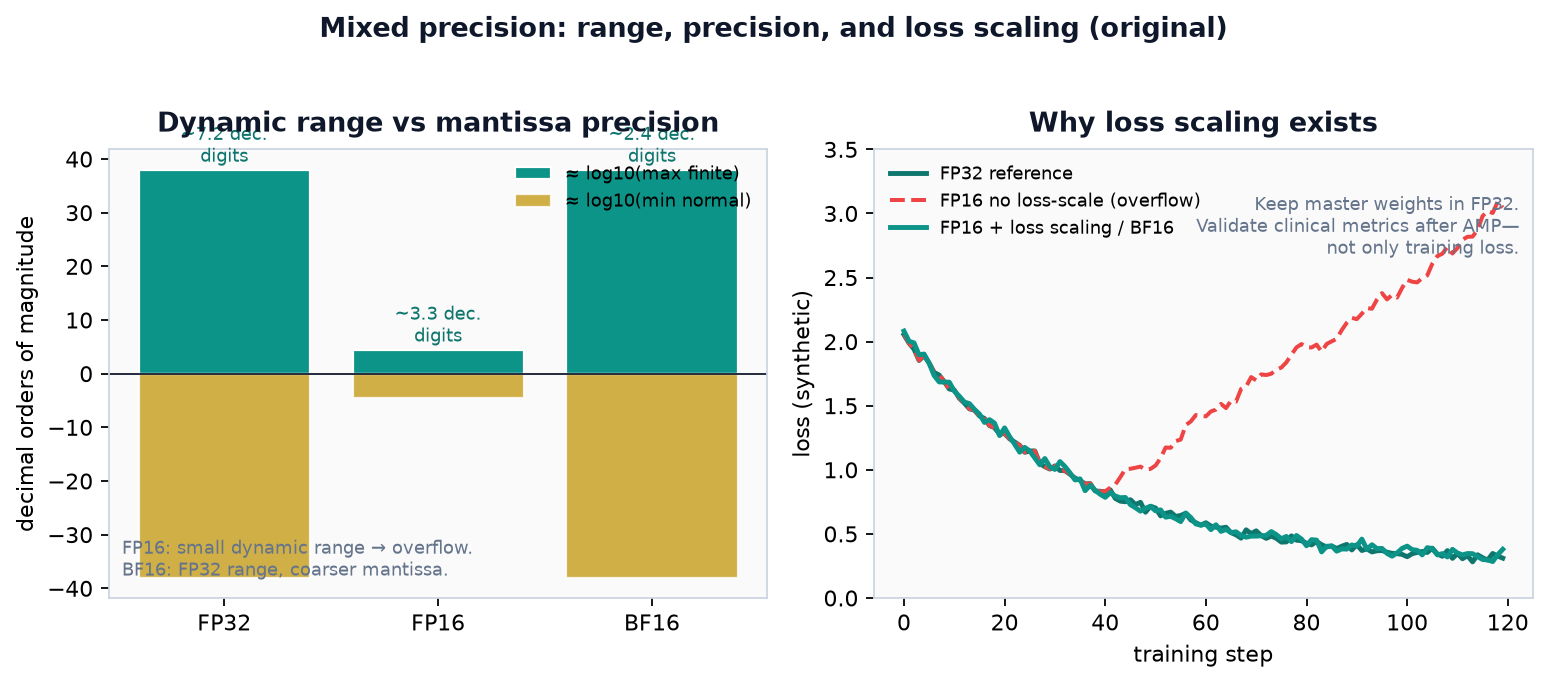
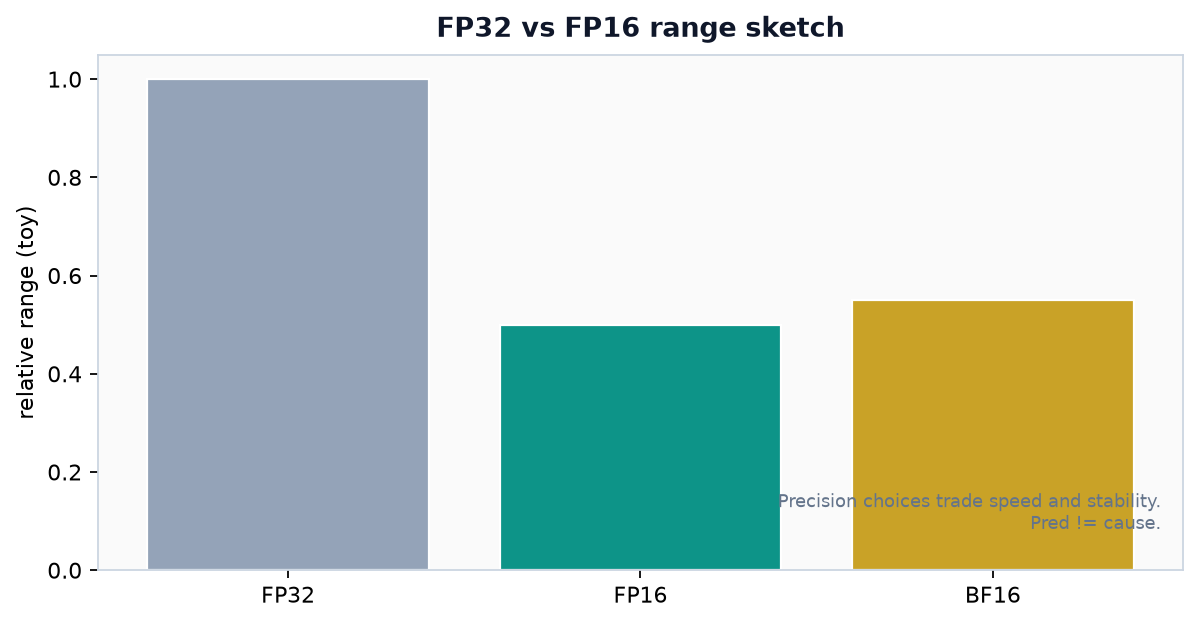
Cycle-32 densify: 20 scientific figures; floor raised to >=22
Book-wide: Gram-Schmidt, repro checklist, colormap caution, SE vs n,
centroid paths, n-gram decay, one-hot vs embed, t-SNE early exagger.,
ridge shrink, grad clip, stop-grad, CTC align, replay buffer, low-bit
error, community sizes, data unit tests, go/no-go, PPV/NPV grid,
capacity approx.

Gates green. No DOCX; prediction!=causation.

diff --git a/docs/curriculum/00-mathematical-foundations-for-machine-learning.md b/docs/curriculum/00-mathematical-foundations-for-machine-learning.md
@@ -330,6 +330,11 @@ Logs are not decoration; they are structural. First, models multiply many probab
 
 *Figure — Linear-algebra scale intuition—not clinical causation. Pred ≠ cause without design.*
 
+
+![Gram-Schmidt orthogonalization sketch (original).](../assets/figures/ml_fig_gram_schmidt.png)
+
+*Figure — Orthogonal bases aid numerics. Gram-Schmidt orthogonalization sketch Pred != cause without design.*
+
 ### What a function is, and how to read its graph
 
 Recall from Section 0.1 that a function maps each input to exactly one output. The domain is the set of allowed inputs; the range is the set of outputs actually produced. We picture a function by its graph: plot the input x horizontally and the output y = f(x) vertically, and mark every point (x, f(x)). Reading a graph is then physical: left-to-right is increasing input, height is output, and the “exactly one output” rule shows up as the vertical line test — any vertical line crosses the curve at most once.

diff --git a/docs/curriculum/00a-preface.md b/docs/curriculum/00a-preface.md
@@ -110,6 +110,11 @@ There is no separate further-reading chapter—the book is the curriculum. Read 
 
 *Figure — Causal claims sit at the top and need design—not AUROC alone. Pred ≠ cause without design.*
 
+
+![Reproducibility checklist bars (original).](../assets/figures/ml_fig_repro_checklist.png)
+
+*Figure — Seeds splits and code versioning matter. Reproducibility checklist bars Pred != cause without design.*
+
 *Figure — Preface leakage triad. Timing (features after t₀), fit (scalers/vocab fit on full cohort), and label leakage (proxies that are the outcome) are the three modes to hunt in every methods section. Leakage inflates prediction metrics—not causal truth.*
 
 | Habit | What you do | What it prevents |

diff --git a/docs/curriculum/01-basic-concepts-of-machine-learning-and-artificial-intelligence.md b/docs/curriculum/01-basic-concepts-of-machine-learning-and-artificial-intelligence.md
@@ -426,6 +426,11 @@ Worked illustration (bias–variance). Let the true mean response at some input 
 
 *Figure — Optimization trajectory is not a causal claim. Pred != cause without design.*
 
+
+![Capacity vs approximation power toy curve (original).](../assets/figures/ml_fig_capacity_approx.png)
+
+*Figure — Capacity enables approximation; not causation. Pred != cause without design.*
+
 ## Common Pitfalls and Failure Modes
 
 The failure modes below recur across projects and modalities. Each has a mechanism, a warning sign, and a discipline that prevents it. Treat this as a checklist to run against any pipeline before you believe its numbers.

diff --git a/docs/curriculum/02-visualization.md b/docs/curriculum/02-visualization.md
@@ -271,6 +271,11 @@ Do not cherry-pick time windows or y-limits to manufacture a policy narrative.
 
 *Figure — Display ethics—not etiology. Pred ≠ cause without design.*
 
+
+![Colormap rainbow vs sequential caution (original).](../assets/figures/ml_fig_colormap_abuse.png)
+
+*Figure — Colormaps can invent false edges. Colormap rainbow vs sequential caution Pred != cause without design.*
+
 Refuse 3-D categorical bars and exploded 3-D pies in scientific communication.
 
 Accessibility expands who can use your work correctly: sufficient luminance contrast, large fonts for projection and photocopy, descriptive captions and alt text, and tabular companions for key plotted values. Accessibility is quality control under time pressure, not only compliance.

diff --git a/docs/curriculum/03-probability-and-statistics.md b/docs/curriculum/03-probability-and-statistics.md
@@ -278,6 +278,11 @@ Return to the LVO screen with prevalence 0.20, sensitivity 0.85, and specificity
 
 *Figure — Narrow intervals are precision—not causal effects. Pred ≠ cause without design.*
 
+
+![SE of mean vs n (original).](../assets/figures/ml_fig_sample_size_se.png)
+
+*Figure — Standard errors shrink with sqrt(n). SE of mean vs n Pred != cause without design.*
+
 *Figure — LR+ ≈ 2.83 and LR− ≈ 0.214 travel across base rates; PPV/NPV do not. **Left:** PPV after a positive screen as a function of pre-test prevalence π (vertical mark at the chapter’s π=0.20 ED example). **Right:** residual disease probability after a negative screen. Copying a paper’s PPV into a different prevalence is a base-rate error.*
 
 Now connect to information theory with a tiny discrete example, using natural logs throughout so the units are nats. Suppose a binary outcome Y with P(Y=1)=0.2 and a binary feature X = screen result, with P(X=1)=0.41 (the positive-screen rate above) carrying the conditional probabilities from the screening table. The outcome’s entropy is H(Y) = −0.2 ln 0.2 − 0.8 ln 0.8 ≈ 0.500 nats. (Watch the units: the same quantity is 0.722 bits, because bits = nats / ln 2 = 0.500 / 0.6931; the numeral 0.7219 is the value in bits, not nats.) After observing X, the expected conditional entropy H(Y|X) is the screen-rate-weighted average of binary entropies at the posteriors 0.415 (screen +) and 0.051 (screen −): H(Y|X=1) ≈ 0.678 nats and H(Y|X=0) ≈ 0.201 nats; with P(X=1)=0.41 and P(X=0)=0.59, H(Y|X) ≈ 0.41·0.678 + 0.59·0.201 ≈ 0.397 nats. Information gain IG = H(Y) − H(Y|X) ≈ 0.500 − 0.397 ≈ 0.104 nats (about 0.15 bits). The screen cuts outcome uncertainty by roughly a fifth—a moderate, not decisive, reduction, consistent with a moderate LR+.

diff --git a/docs/curriculum/04-clustering.md b/docs/curriculum/04-clustering.md
@@ -329,6 +329,11 @@ Beyond the TOC core, several variants appear in clinical papers. Spectral cluste
 
 *Figure — Geometry of partitions—not etiologic prevalence. Pred ≠ cause without design.*
 
+
+![k-means centroid migration paths (original).](../assets/figures/ml_fig_centroid_paths.png)
+
+*Figure — Centroids move until assignment stabilizes. k-means centroid migration paths Pred != cause without design.*
+
 Mean-shift finds modes of a kernel density estimate without fixing k, related in spirit to density methods. Hierarchical density methods (HDBSCAN) combine ideas from OPTICS and hierarchy to extract stable clusters across density levels. Constrained clustering incorporates must-link and cannot-link hints from partial labels—semi-supervised structure discovery when experts can say ‘these two cases should not share a phenotype’ without full labeling.
 
 Biclustering and co-clustering simultaneously cluster rows and columns of a matrix—patients and genes, or patients and sparse code sets—producing blocks of co-behavior. Topic models on clinical text are soft co-clustering cousins. Subspace clustering seeks clusters that exist only in feature subsets, relevant when different stroke mechanisms live in different biomarker panels. These methods multiply researcher degrees of freedom; pre-registration of analytic choices becomes even more important.

diff --git a/docs/curriculum/05-frequent-itemset-mining-sequence-mining-and-information-retrieval.md b/docs/curriculum/05-frequent-itemset-mining-sequence-mining-and-information-retrieval.md
@@ -269,6 +269,11 @@ Apriori generates candidates of size k from frequent itemsets of size k−1, pru
 
 *Figure — Pattern mining finds strings—not causes. Pred ≠ cause without design.*
 
+
+![n-gram count decay with order (original).](../assets/figures/ml_fig_ngram_counts.png)
+
+*Figure — Higher n-grams get sparser. n-gram count decay with order Pred != cause without design.*
+
 ```
 Apriori(D, minsup):
  L1 ← frequent 1-itemsets in D

diff --git a/docs/curriculum/06-feature-engineering.md b/docs/curriculum/06-feature-engineering.md
@@ -306,6 +306,11 @@ Blanks are not merely a nuisance to be silently filled; they are data whose reas
 
 *Figure — Feature maps expand capacity—not causal graphs. Pred ≠ cause without design.*
 
+
+![One-hot vs embedding size trade-off (original).](../assets/figures/ml_fig_onehot_vs_embed.png)
+
+*Figure — Dense embeddings compress high-card cats. One-hot vs embedding size trade-off Pred != cause without design.*
+
 \n![6.6: Rubin's missingness mechanisms. MCAR: absence is driven by chance, independent of all data. MAR: absence in x3 is explai](../assets/figures/ml_concept_6.6_59c3837d.png)
 
 *Figure 6.6 — original teaching graphic.*

diff --git a/docs/curriculum/07-dimensionality-reduction-and-data-decomposition.md b/docs/curriculum/07-dimensionality-reduction-and-data-decomposition.md
@@ -248,6 +248,11 @@ NMF approximates a nonnegative matrix X ≈ W H with W ≥ 0, H ≥ 0. Nonnegati
 
 *Figure — Heuristics for rank—not etiology. Pred ≠ cause without design.*
 
+
+![t-SNE early exaggeration cartoon (original).](../assets/figures/ml_fig_tsne_early_exag.png)
+
+*Figure — Hyperparams reshape maps without new biology. t-SNE early exaggeration cartoon Pred != cause without design.*
+
 *Figure — NMF teaching panel. A synthetic 16×16 nonnegative “map” is a sum of three blob parts. Multiplicative-update NMF recovers additive parts \(H\) and sample loadings \(W\); reconstruction error falls with rank and plateaus near the true \(r=3\). Parts are ≥0 and additive—useful for territories or topics—but solutions are non-unique, depend on initialization, and do not license causal anatomy labels without external validation.*
 
 ### Singular Value Decomposition (SVD)

diff --git a/docs/curriculum/08-regression-analysis.md b/docs/curriculum/08-regression-analysis.md
@@ -299,6 +299,11 @@ As λ goes from large to small along a Lasso path, coefficients enter the model 
 
 *Figure — Estimation fragility—not a causal DAG. Pred ≠ cause without design.*
 
+
+![Ridge coefficient shrink vs lambda (original).](../assets/figures/ml_fig_ridge_trace.png)
+
+*Figure — Shrinkage stabilizes OLS under collinearity. Ridge coefficient shrink vs lambda Pred != cause without design.*
+
 Elastic net’s mixing parameter α (weight on L1 versus L2) is a second hyperparameter; nest its selection. Grouped clinical features (multiple BP meds, multi-item NIHSS) sometimes use group Lasso variants so that whole groups enter together—beyond this chapter’s core, but aligned with elastic net’s motivation. The non-negative garrote’s c_j path similarly traces shrinkage of an initial fit; if the initial OLS is already nonsense due to p > n, start from Ridge or univariate screens instead.
 
 ## Optimization Practice Notes

diff --git a/docs/curriculum/10-neural-networks-and-deep-learning.md b/docs/curriculum/10-neural-networks-and-deep-learning.md
@@ -229,6 +229,11 @@ Dropout randomly zeroes activations during training with probability p, forcing 
 
 *Figure — Optimization knobs—not physiology. Pred ≠ cause without design.*
 
+
+![Gradient clipping threshold (original).](../assets/figures/ml_fig_grad_clip.png)
+
+*Figure — Clip prevents explode; does not invent causes. Gradient clipping threshold Pred != cause without design.*
+
 Start with a simple MLP or linear baseline before complex architectures.
 
 Monitor train versus validation loss to detect under/overfitting.

diff --git a/docs/curriculum/11-self-supervised-deep-learning.md b/docs/curriculum/11-self-supervised-deep-learning.md
@@ -275,6 +275,11 @@ Pretext task catalog for unlabeled neuroimaging: rotation prediction, jigsaw puz
 
 *Figure — Stabilization tricks for representation learning. Pred != cause without design.*
 
+
+![Stop-gradient block schematic (original).](../assets/figures/ml_fig_stopgrad.png)
+
+*Figure — Stop-grad is an optimization device. Stop-gradient block schematic Pred != cause without design.*
+
 ## 11.10 Multimodal Alignment Beyond CLIP and Practical Hospital Constraints
 
 CLIP-style contrastive alignment generalizes to ECG–text, EEG–report, and CT–report pairs. Batch construction must avoid false negatives: two images from the same study with different captions should not be forced apart if they share semantics. Hard negatives (similar body region, different finding) improve discrimination. Zero-shot prompts are brittle: ‘intracranial hemorrhage’ vs ‘ICH’ vs ‘hemorrhagic stroke’ can shuffle rankings; ensemble prompts or learned prompt templates reduce variance.